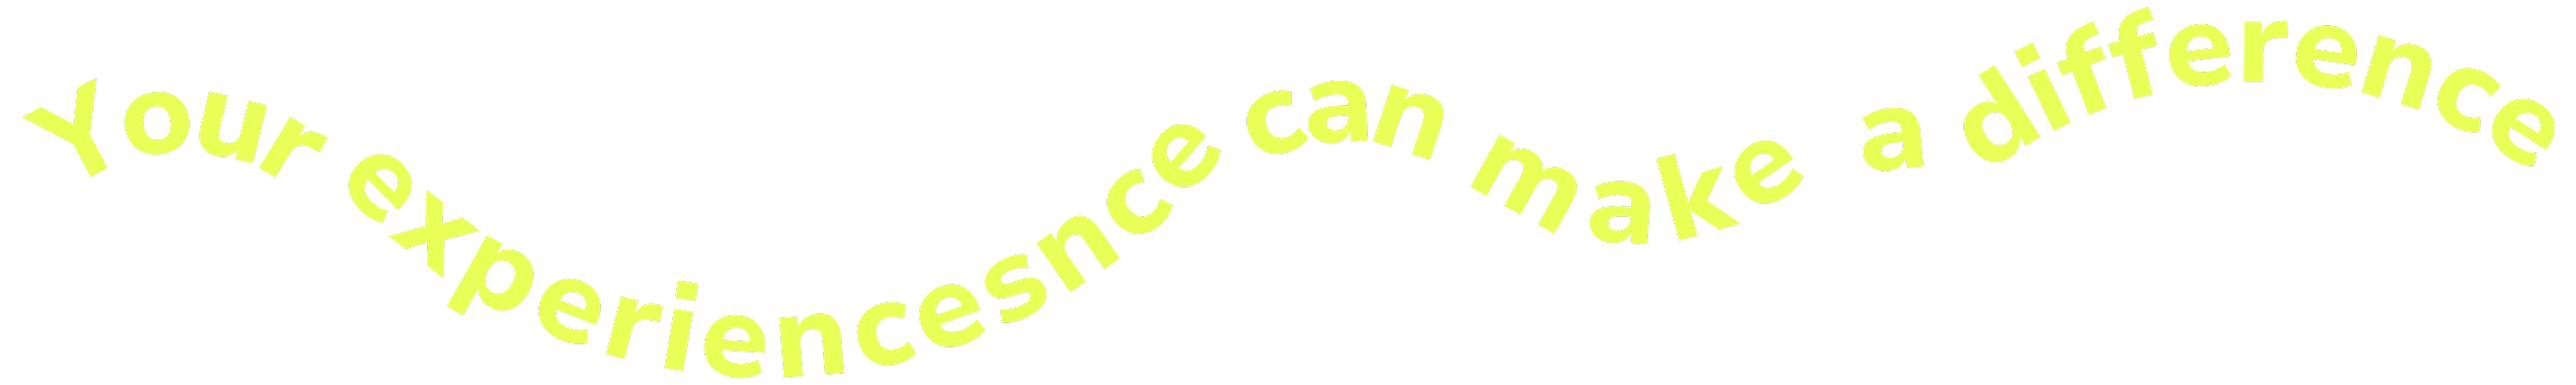
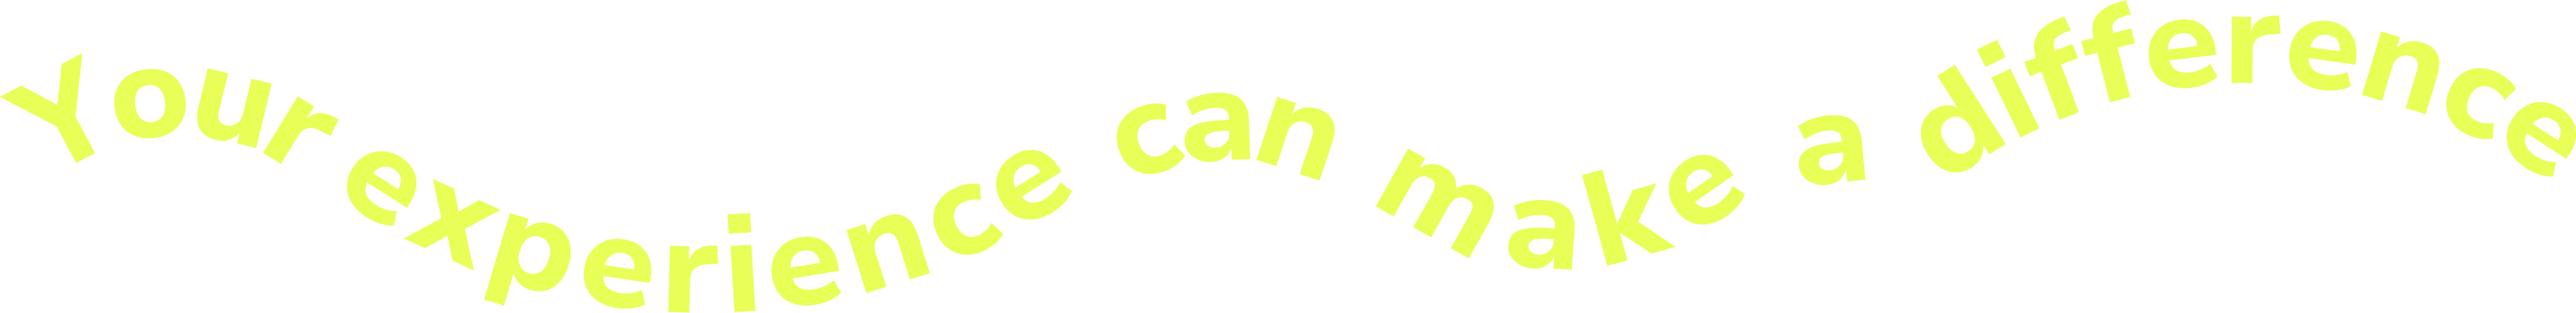
add curve section

Changed region(s): [[0.0, 0.0, 1.0, 1.0]]

diff --git a/app/page.tsx b/app/page.tsx
@@ -240,6 +240,68 @@ export default function Home() {
           </div>
         </section>
 
+        {/* section four blue page */}
+        <section className=" w-full bg-[#725ED4] xl:p-0 p-4 md:h-[615px] sm:h-[500px] h-[350px] sm:p-16 p-5 relative xl:px-0 md:px-6 px-4">
+          <div className="max-w-[1300px]">
+            <Image
+              src={curve}
+              alt="Your experience can make a difference"
+              className="max-w-[1200px] w-full absolute top-1/2 left-1/2 transform -translate-x-1/2 -translate-y-1/2"
+            />
+
+            {/* profiles */}
+            <div className="absolute  bottom-[25%] 2xl:left-[20%] xl:left-[10%] left-3">
+              <Image
+                className="rounded-full sm:w-[60px] w-10 sm:h-[60px] h-10 border-[1px] border-white border-solid"
+                src={profile1}
+                alt="profile1"
+              />
+              <p className="bg-[#E8FF58] rounded-full sm:mt-2 mt-1 text-[#725ED4] sm:text-sm text-[8px] py-[2px] px-2 inline-block">
+                Grief support
+              </p>
+            </div>
+            <div className="absolute sm:top-[36%] top-[25%] 2xl:left-[35%] xl:left-[30%] left-[25%]">
+              <p className="bg-[#E8FF58] rounded-full sm:mb-2 mb-1 text-[#725ED4] sm:text-sm text-[8px] py-[2px] px-2 inline-block">
+                Empty Nesters
+              </p>
+              <Image
+                className="rounded-full sm:w-[50px] w-8 sm:h-[50px] h-8 border-[1px] border-white border-solid"
+                src={profile2}
+                alt="profile2"
+              />
+            </div>
+            <div className="absolute  bottom-[25%] sm:left-[50%] left-[45%]">
+              <Image
+                className="rounded-full sm:w-[60px] w-10 sm:h-[60px] h-10 border-[1px] border-white border-solid"
+                src={profile3}
+                alt="profile3"
+              />
+              <p className="bg-[#E8FF58] rounded-full sm:mt-2 mt-1 text-[#725ED4] sm:text-sm text-[8px] py-[2px] px-2 inline-block">
+                Devorce Journey
+              </p>
+            </div>
+            <div className="absolute md:top-[25%] sm:top-[20%] top-[14%] 2xl:right-[35%] xl:right-[25%] md:right-[22%] sm:right-[15%] right-[10%]">
+              <p className="bg-[#E8FF58] rounded-full sm:mb-2 mb-1 text-[#725ED4] sm:text-sm text-[8px] py-[2px] px-2 inline-block">
+                Addiction Recovery
+              </p>
+              <Image
+                className="rounded-full sm:w-[60px] w-10 sm:h-[60px] h-10 border-[1px] border-white border-solid"
+                src={profile4}
+                alt="profile4"
+              />
+            </div>
+            <div className="absolute bottom-[30%] 2xl:right-[20%] xl:right-[10%] sm:right-[10%] right-1">
+              <Image
+                className="rounded-full sm:w-[50px] w-[30px] sm:h-[50px] h-[30px] border-[1px] border-white border-solid"
+                src={profile5}
+                alt="profile5"
+              />
+              <p className="bg-[#E8FF58] rounded-full sm:mt-2 mt-1 text-[#725ED4] sm:text-sm text-[8px] py-[2px] px-2 inline-block">
+                Quitting Smoking
+              </p>
+            </div>
+          </div>
+        </section>
         
 
         {/* section five instagram post */}
